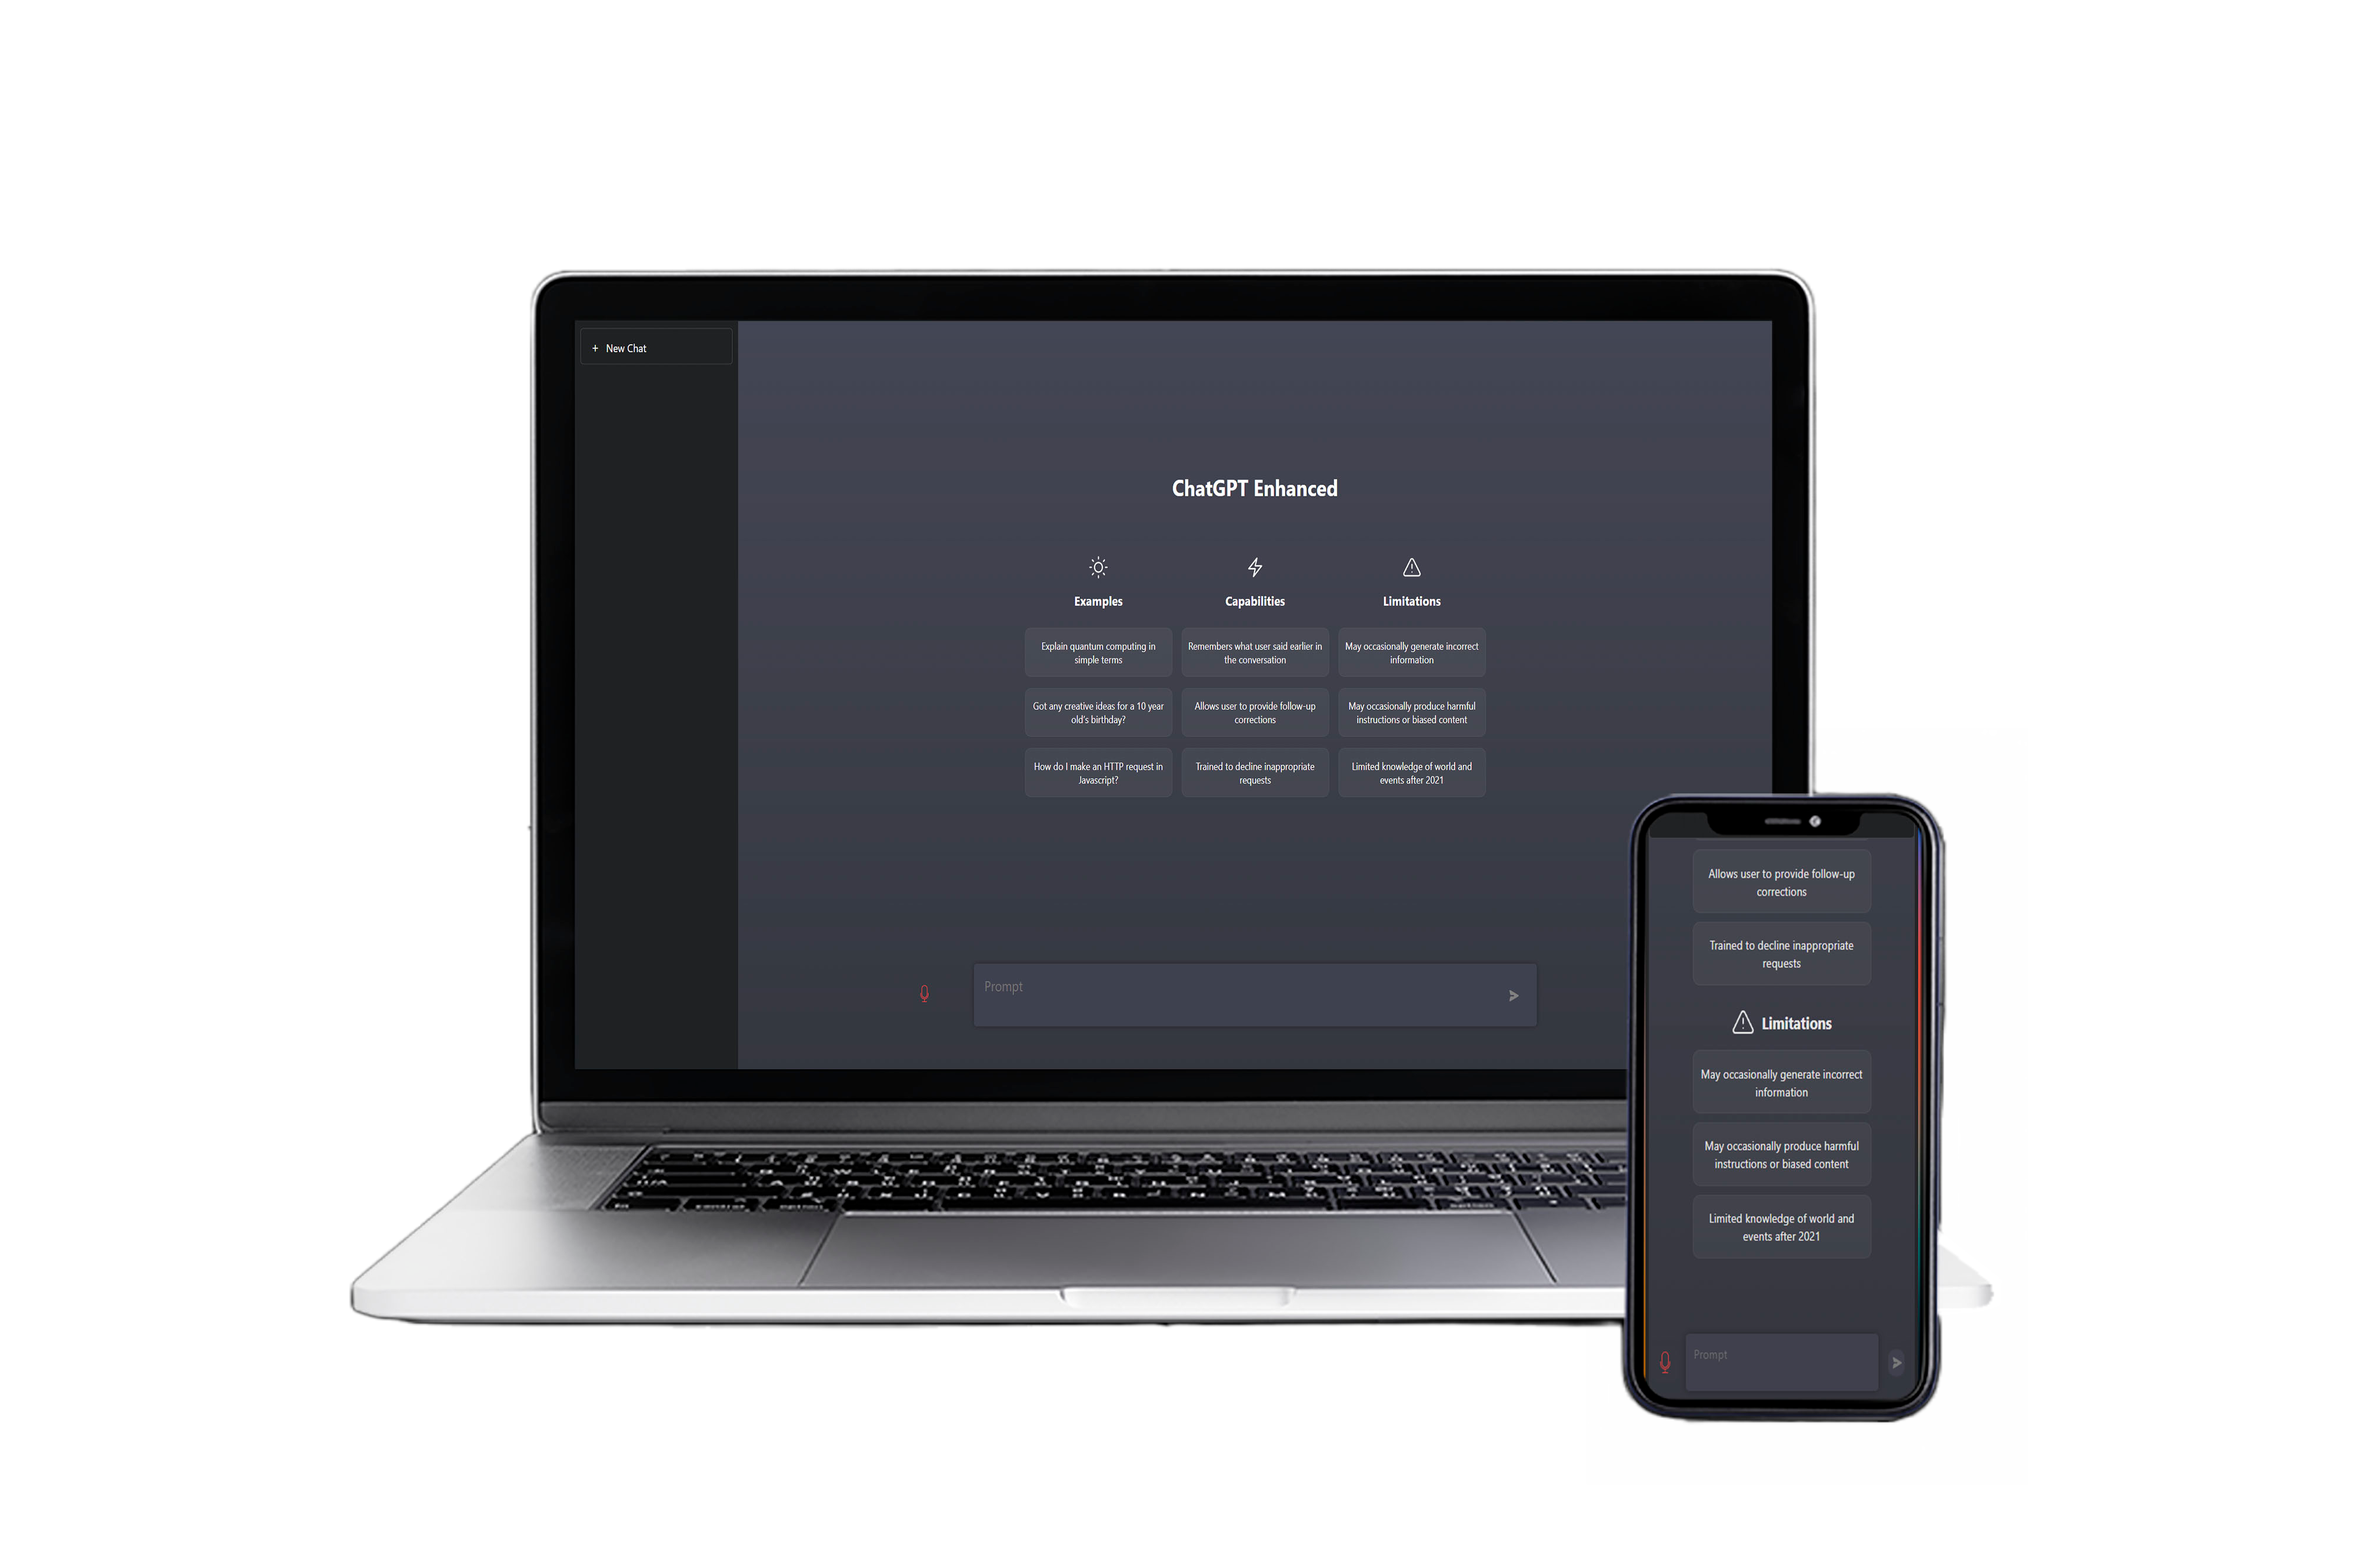
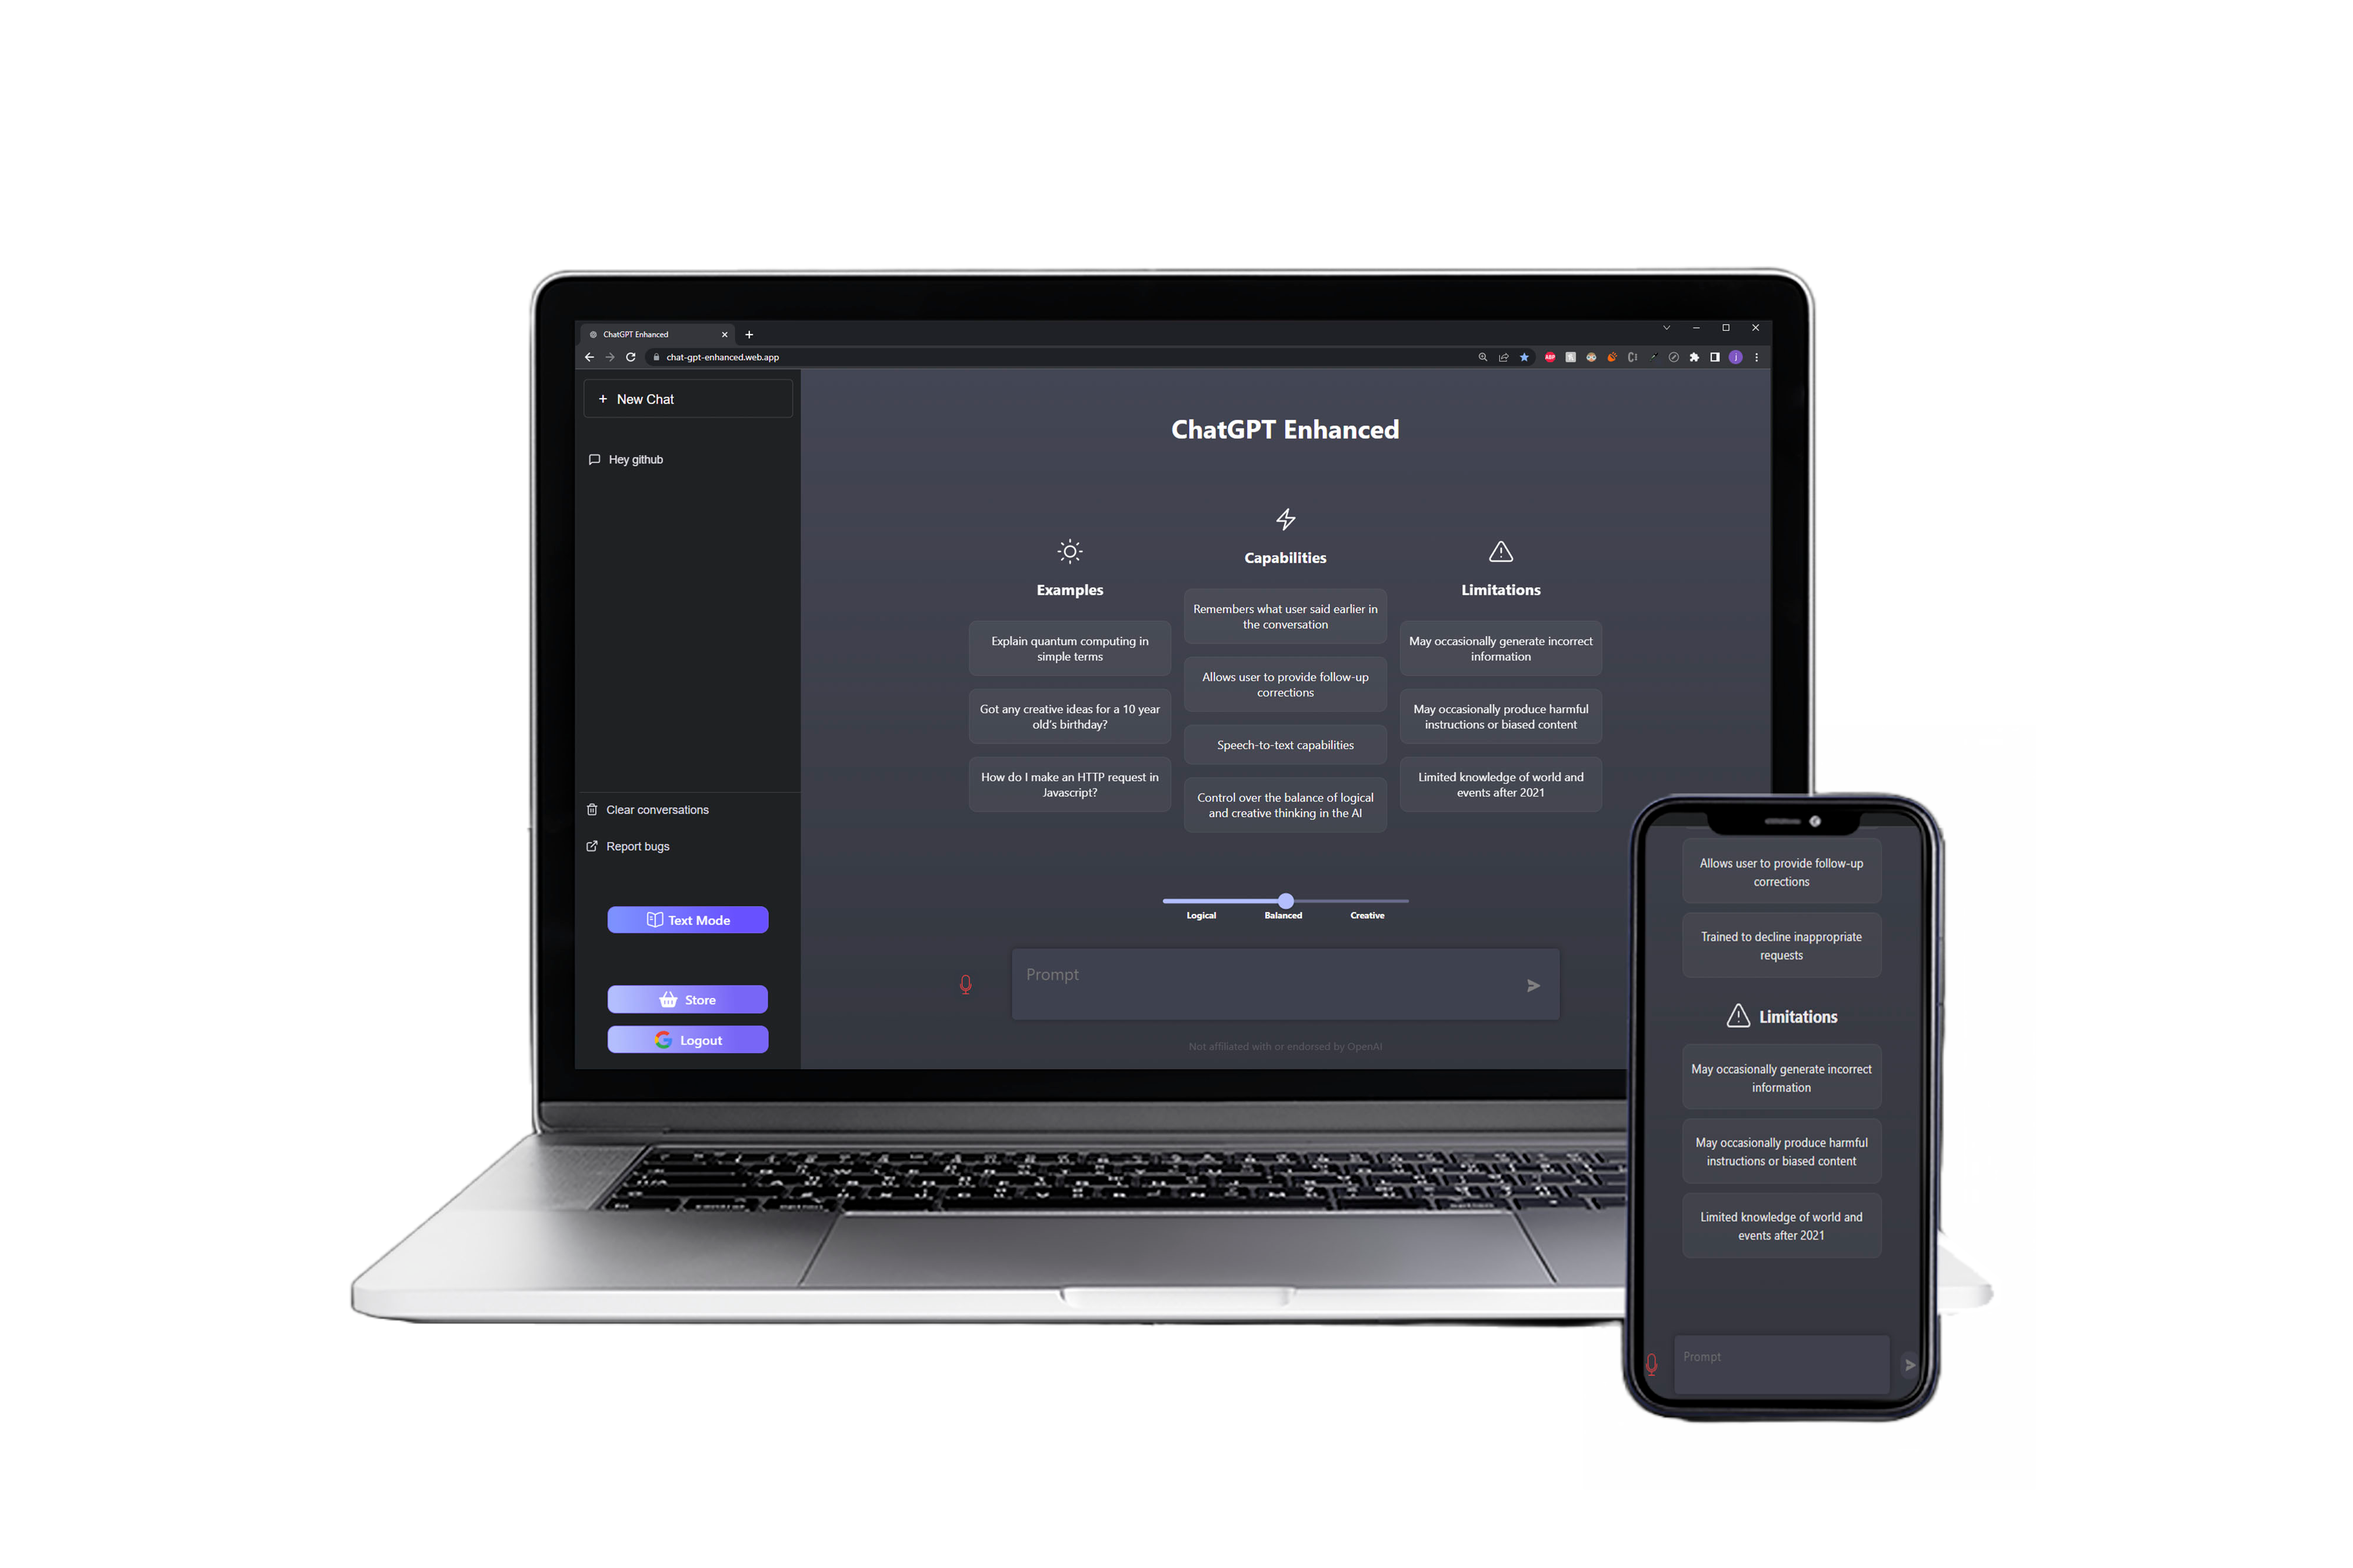
update project image and description

diff --git a/constants/projects.js b/constants/projects.js
@@ -3,7 +3,7 @@ export const projects = [
     id: 1,
     name: "ChatGPT Enhanced",
     description:
-      "Leverages OpenAI's GPT model (text-davinci-003) to generate natural language responses to user-provided prompts. This project extends the functionality of the original ChatGPT by adding speech-to-text capabilities. The user interface is built using React, allowing for an easy and efficient interaction with the AI-based service.",
+      "By leveraging OpenAI's API, this project generates natural language responses in real-time using the GPT-3 and Codex models. It features speech-to-text integration and allows users to control the AI's logic and creativity balance. The React-based user interface provides an effortless interaction with the AI-powered service. The project implements secure authentication and a Stripe-powered subscription system, and offers a free trial period for users to evaluate the service.",
     website: "https://chat-gpt-enhanced.web.app/",
     github: "https://github.com/JesseKartabani/chat-gpt-enhanced",
     image: "/chatGptProject.png",
